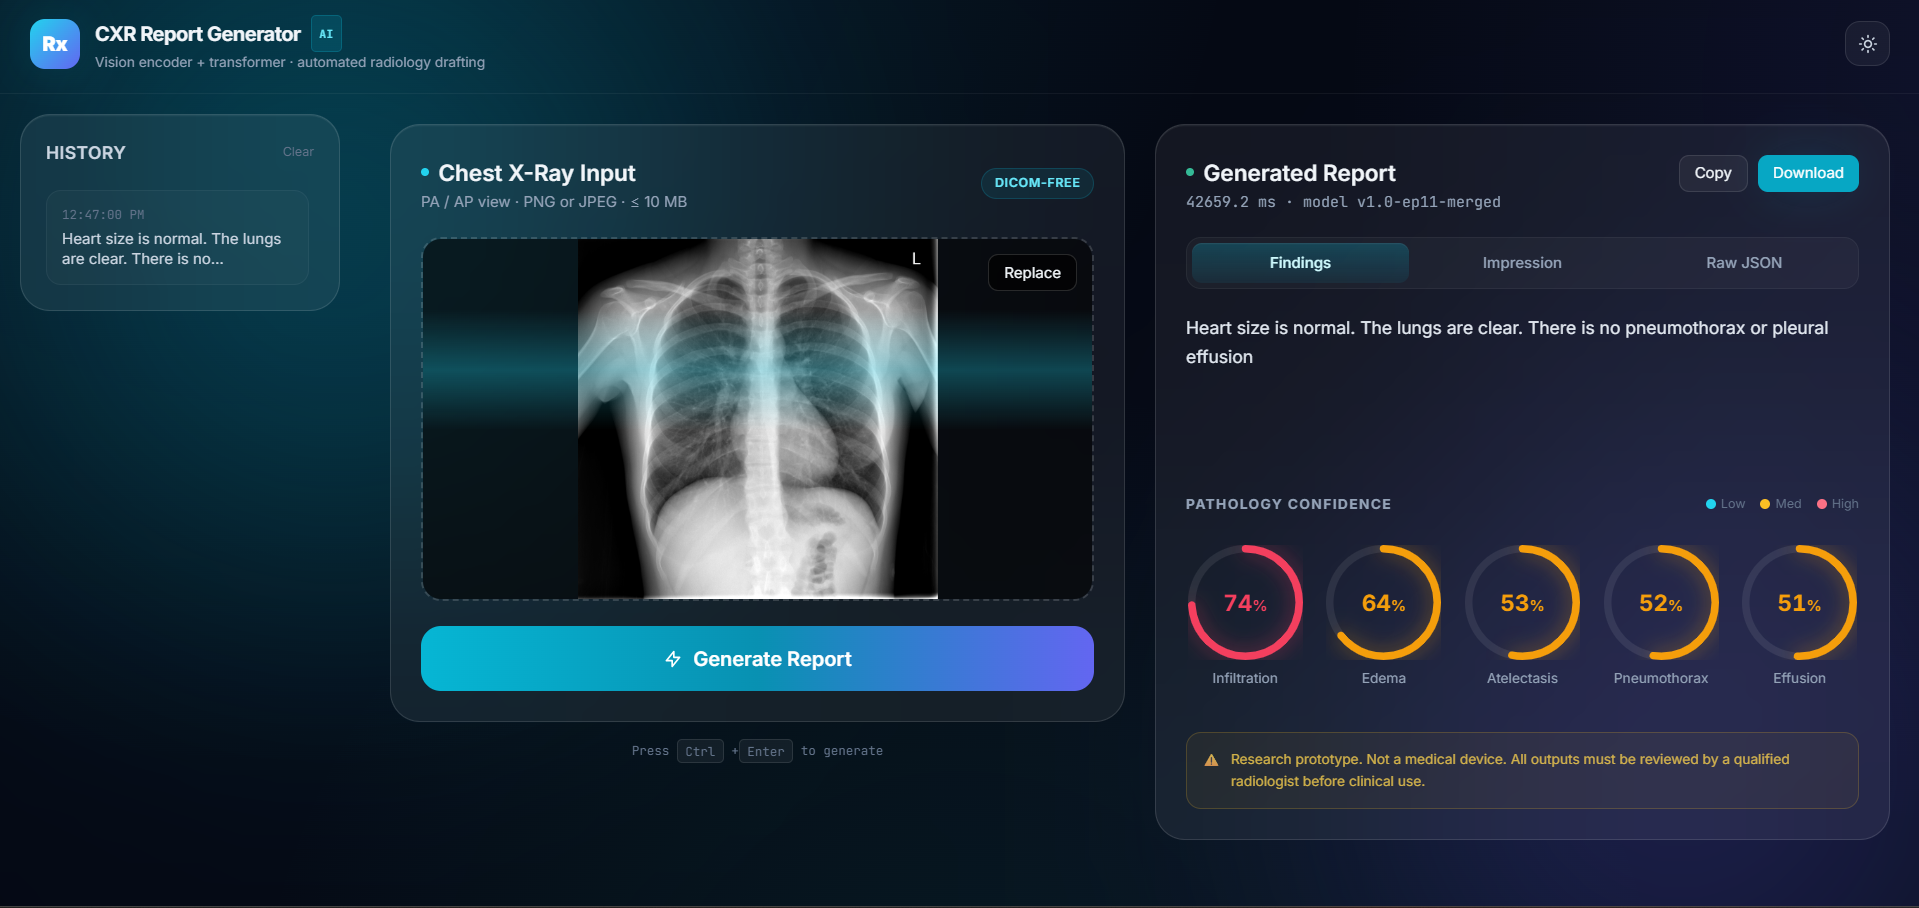
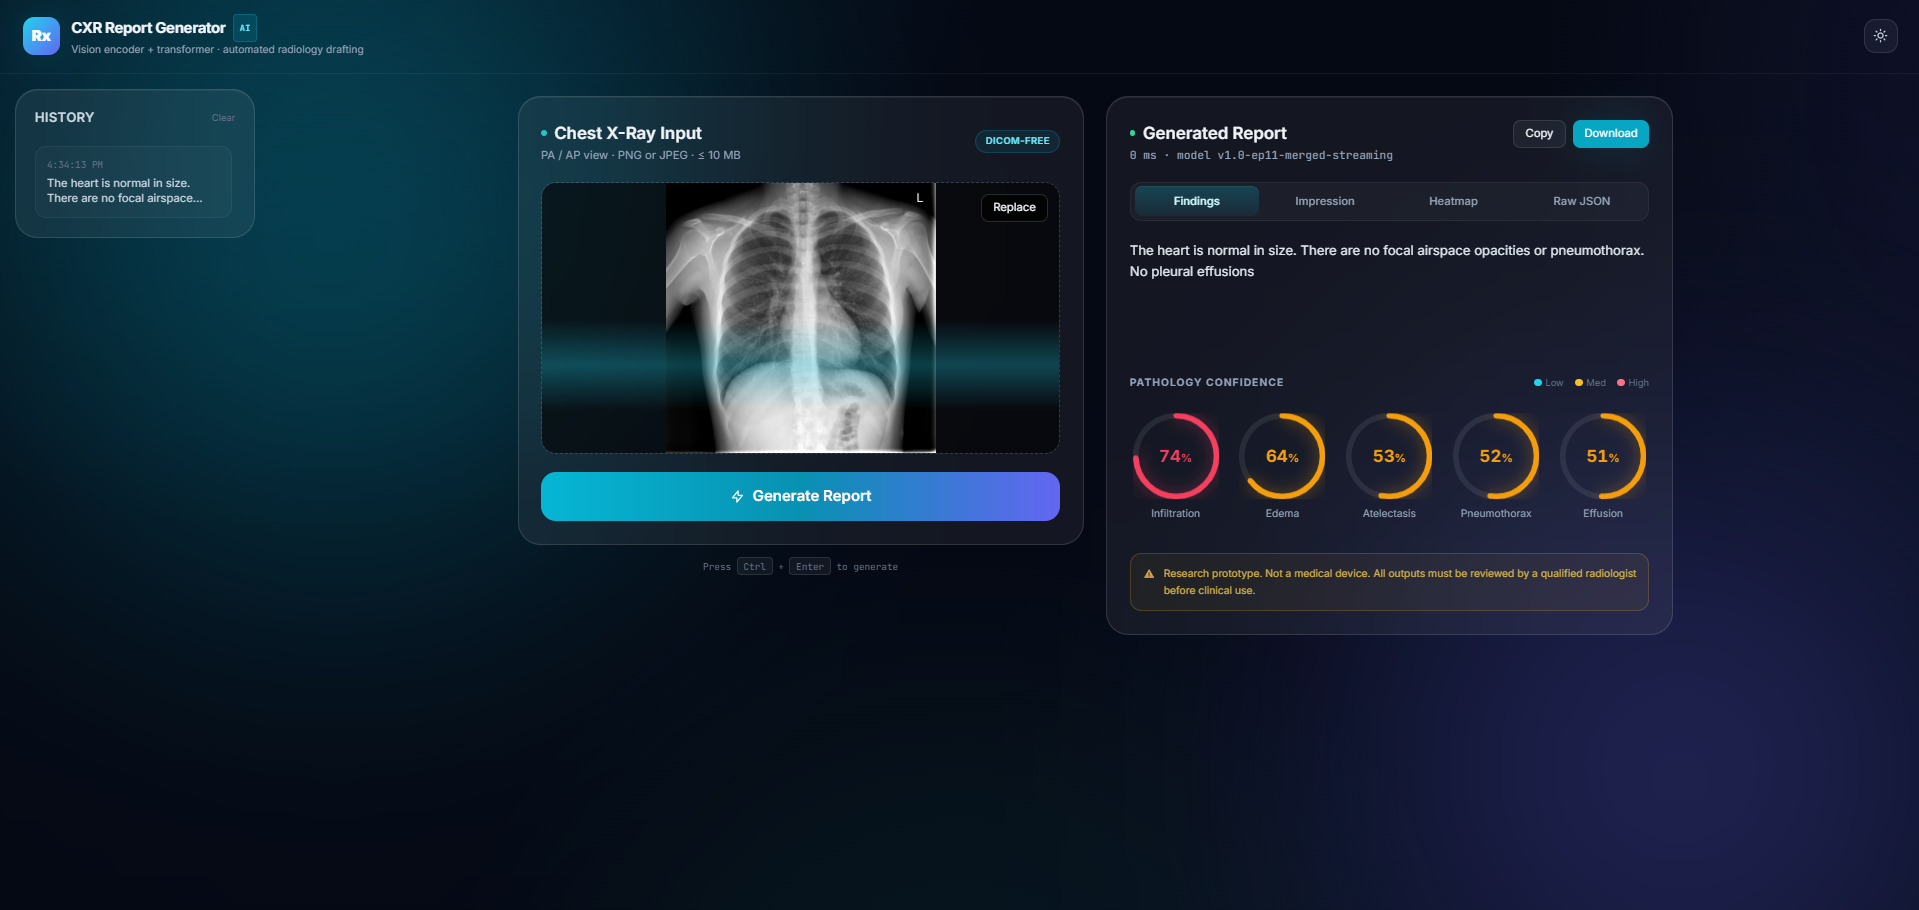
Add CXR Report Generator project

diff --git a/README.md b/README.md
@@ -466,6 +466,39 @@ Tested on multiple X-rays — findings vary per image:
 
 ---
 
+## 🎯 Advanced Features in Detail
+
+### 🔴 Streaming (SSE)
+
+Instead of waiting 3–5 seconds for the full report, the model **streams tokens as they generate**. Uses `TextIteratorStreamer` from HuggingFace with a background thread, delivering tokens via Server-Sent Events.
+
+**Result:** Report feels 2× faster — users see progress immediately.
+
+### 📄 PDF Export
+
+Click **Download** to receive a professionally formatted PDF with:
+- Header with model version and latency
+- Embedded X-ray image
+- Formatted findings + impression
+- **Color-coded pathology bars** (rose / amber / cyan)
+- Medical disclaimer footer
+
+Uses `jsPDF` on the client — no backend overhead.
+
+### 🎨 Grad-CAM Heatmaps
+
+Backpropagates from the top-scoring CheXpert class to find which of the **49 spatial locations** (7×7 grid) influenced the prediction most.
+
+- **Red/orange** = high attention
+- **Yellow** = medium
+- **Blue** = low attention
+
+Overlay is generated with Matplotlib's `jet` colormap and blended with the original X-ray at 50% opacity.
+
+**Result:** Interpretability — users can see *where* the model looked.
+
+---
+
 ## 📁 Project Structure
 
 ```
@@ -572,9 +605,15 @@ cxr-report-generator/
 - [x] Advanced UI — aurora background, glassmorphism
 - [x] Tabbed report view + circular confidence gauges
 - [x] Report history sidebar + theme toggle + toasts
+<<<<<<< HEAD
 - [x] **Streaming token output (SSE)** 🆕
 - [x] **PDF report export** 🆕
 - [x] **Grad-CAM attention heatmaps** 🆕
+=======
+- [x] Streaming token output (SSE)
+- [x] PDF report export
+- [x] Grad-CAM attention heatmaps
+>>>>>>> bf00ade (docs: add streaming, heatmap screenshots and update report)
 
 ### 🚧 Planned
 
@@ -587,6 +626,7 @@ cxr-report-generator/
 - [ ] DICOM support
 - [ ] Multi-view fusion (PA + lateral)
 - [ ] Uncertainty quantification
+<<<<<<< HEAD
 
 ---
 
@@ -620,6 +660,8 @@ Backpropagates from the top-scoring CheXpert class to find which of the **49 spa
 Overlay is generated with Matplotlib's `jet` colormap and blended with the original X-ray at 50% opacity.
 
 **Result:** Interpretability — users can see *where* the model looked.
+=======
+>>>>>>> bf00ade (docs: add streaming, heatmap screenshots and update report)
 
 ---
 
